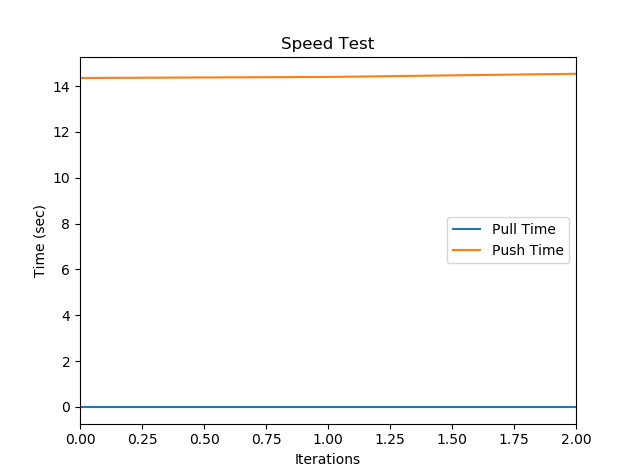
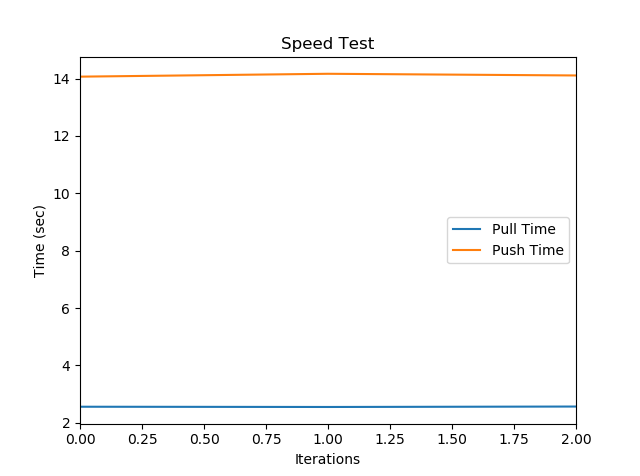
cleaned up code for speed and throughput testing

diff --git a/tests/Throughput_Thread.py b/tests/Throughput_Thread.py
@@ -10,36 +10,36 @@ import sys
 from synbiohub_adapter.SynBioHubUtil import *
 from sbol import *
 
-# download third party package: pip install pandas
+# download third party package to display plot: pip install pandas
 # python -m tests.Throughput_Thread
 
 class myThread (threading.Thread):
-	def __init__(self, sbolDoc, sbh_connector):
+	def __init__(self, sbolDoc_list, sbh_connector):
 		threading.Thread.__init__(self)
-		self.sbolDoc = sbolDoc
+		self.sbolDoc_list = sbolDoc_list
 		self.sbh_connector = sbh_connector
 		self.thread_start = self.thread_end = 0
 
 	def run(self):
-		# print("Started Thread at : %s" %(time.ctime(time.time())))
 		self.thread_start = time.ctime(time.time())
-		push_sbh(self.sbolDoc, self.sbh_connector)
+		for sbolDoc in self.sbolDoc_list:
+			push_sbh(sbolDoc, self.sbh_connector)
+			uri = sbolDoc.displayId + "/transcriptic_rule_30_q0_1_09242017/1"
+			pull_sbh(self.sbh_connector, uri)
 		self.thread_end = time.ctime(time.time())
-		# print("Ended Thread at : %s" %(time.ctime(time.time())))
 
 	def thread_times(self):
 		return self.thread_start, self.thread_end
 
 
-def create_sbolDocs(numDocs, startIndex, sbolFile='examples/rule30-Q0-v2.xml'):
+def create_sbolDocs(numDocs, collPrefix, sbolFile='examples/rule30-Q0-v2.xml'):
 	doc_list = []
-	print("startIndex %s" %startIndex)
-	for i in range(startIndex,numDocs):
+	for i in range(0, numDocs):
 		sbolDoc = Document()
 		sbolDoc.read(sbolFile)
-		sbolDoc.displayId = "ThroughputTest_Coll_" + str(i)
-		sbolDoc.name = "ThroughputTest_Coll_" + str(i) + "_name"
-		sbolDoc.description = "ThroughputTest_Coll_" + str(i) + "_description"
+		sbolDoc.displayId = collPrefix + str(i)
+		sbolDoc.name = collPrefix + str(i) + "_name"
+		sbolDoc.description = collPrefix + str(i) + "_description"
 		sbolDoc.version = str(i)
 		doc_list.append(sbolDoc)
 	return doc_list
@@ -61,56 +61,51 @@ def pull_sbh(sbh_connector, sbolURI):
 	start = time.clock()
 	sbh_connector.pull(sbolURI, sbolDoc)
 	end = time.clock()
-	# sbolDoc.writeString()
+	
+	if sbolDoc is None:
+		print("Found nothing and caused no error.")
+	else:
+		experimentalData_tl = []
+		for tl in sbolDoc:
+			if topLevel.type == 'http://sd2e.org#ExperimentalData':
+				experimentalData_tl.append(topLevel)
+				if len(experimentalData_tl) != 74:
+					print("Found the wrong SynBioHub Part with this uri: %s" %sbolURI)
+
 	return end - start
 
-def testSpeed(iterations, sbolDoc, sbh_connector):
-	
+def testSpeed(sbolDoc_List, sbh_connector):
 	pushTimes = []
 	pullTimes = []
 
-	collPrefix = "ST_CColl_"
-	# Note:iteration can't be 0 or lower
-	for i in range(0,iterations):
-		sbolDoc.displayId = collPrefix + str(i)
-		sbolDoc.name = collPrefix + str(i) + "_name"
-		sbolDoc.version = str(i)
-		sbolDoc.description = collPrefix + str(i) + "_description"
-		
+	for sbolDoc in sbolDoc_List:
 		pushTime = push_sbh(sbolDoc, sbh_connector)
 		pushTimes.append(pushTime)
-	
-		pullTime = pull_sbh(sbh_connector, sbolDoc.displayId)
-		pullTimes.append(0)
-		
+
+		uri = sbolDoc.displayId + "/transcriptic_rule_30_q0_1_09242017/1"
+		pullTime = pull_sbh(sbh_connector, uri)
+		pullTimes.append(pullTime)
+
 	return pullTimes, pushTimes
 
-# Calculate how many pull and push were made to SynBioHub for a specified time
-# totalTime: How long to push and pull from SynBioHub
-def testSpeed2(totalTime, sbolDoc, sbh_connector):
-	numPush = 0
-	pushTimes = []
-	startTime = time.clock()
-	coll_id = "TT2_AColl_" + str(numPush)
-	while time.clock() - startTime < totalTime:
-		sbolDoc.displayId = coll_id
-		sbolDoc.name = coll_id + "_name"
-		sbolDoc.version = str(numPush)
-		sbolDoc.description = coll_id + "_description"
-		
-		pushTimes.append(push_sbh(sbolDoc, sbh_connector))
-		numPush += 1
+def testThroughput(threadNum, sbh_connector, docNum):
+	threads = []
+	for t in range(0, threadNum):
+		sbolDoc_List = create_sbolDocs(docNum, "TT_EColl_" + str(t))
+		threads.append(myThread(sbolDoc_List, sbh_connector))
+	start = time.clock()
+	for t in threads:
+		t.start()
+	for t in threads:
+		t.join()
+	end = time.clock()
 
-	print("%d pushes in %d seconds" % (numPush, totalTime))
 
 def run_tests(iterations=0, testType=0):
-	sbolFile = 'examples/rule30-Q0-v2.xml' 
-	sbolDoc = Document()
-	sbolDoc.read(sbolFile)
-
 	sbh_connector = PartShop("https://synbiohub.bbn.com/")
 	sbh_user = input('Enter SynBioHub Username: ')
 	sbh_connector.login(sbh_user, getpass.getpass(prompt='Enter SynBioHub Password: ', stream=sys.stderr))
+	# Config.setOption("verbose", True)
 
 	if testType < 0 or testType > 2:
 		raise ValueError("Error: testType must be 0, 1, or 2")
@@ -119,10 +114,11 @@ def run_tests(iterations=0, testType=0):
 	isThrpt = (testType == 1) or (testType == 2)
 
 	if isSpeed:
-		pullTimes, pushTimes = testSpeed(iterations, sbolDoc, sbh_connector)
+		sbolDoc_List = create_sbolDocs(iterations, "ST_NColl_")
+		pullTimes, pushTimes = testSpeed(sbolDoc_List, sbh_connector)
 		df = pd.DataFrame({"Pull Time": pullTimes,
 							"Push Time": pushTimes})
-		df.loc['Total'] = df.sum()
+		
 		fig, ax = plt.subplots()
 		ax.set_title("Speed Test")
 		ax.set_ylabel("Time (sec)")
@@ -130,54 +126,17 @@ def run_tests(iterations=0, testType=0):
 		df.plot(x=df.index, ax = ax)
 		plt.show()
 		fig.savefig('outputs/SpeedResult_%s_iter.png' %iterations)
+
+		df.loc['Total'] = df.sum()
 		df.to_csv("outputs/SpeedResult_%s_iter.csv" %iterations)
 
 	if isThrpt:
-		count = 0
-		docNum = iterations
-		startIndex = 0
-		pushSec = []
-		tStart = []
-		tEnd = []
-		while count < 3:
-			doc_list = create_sbolDocs(docNum, startIndex)
-			threads = [myThread(sbolDoc, sbh_connector) for sbolDoc in doc_list]
-			start = time.clock()
-			for t in threads:
-				t.start()
-			for t in threads:
-				t.join()
-			end = time.clock()
-			for t in threads:
-				t_start, t_end = t.thread_times()
-				tStart.append(t_start)
-				tEnd.append(t_end)
+		threadNum = 3
+		testThroughput(threadNum, sbh_connector, iterations)
 
-			pushSec.append(docNum/(end-start))
-			startIndex = docNum
-			docNum += 2
-			count += 1
-
-		df = pd.DataFrame({"Thread Started": tStart,
-							"Thread Ended": tEnd,
-							"Push per Sec": pushSec})
-		fig, ax = plt.subplots()
-		ax.set_title("Throughput_Thread Test")
-		ax.set_ylabel("Time (sec)")
-		ax.set_xlabel("Iterations")
-		df.plot(x=df.index, ax = ax)
-		plt.show()
-		fig.savefig('SpeedResult_%s_iter.png' %iterations)
-		df.to_csv("SpeedResult_%s_iter.csv" %iterations)
+		
 
 		
 if __name__ == '__main__':
-	# run_tests(3, 0)
+	run_tests(3, 1)
 
-	uri = "https://synbiohub.org/public/igem/BBa_K1001755/1"
-	Config.setOption("verbose", True)
-	sbh_connector = PartShop("https://synbiohub.org/")
-	sbh_user = input('Enter SynBioHub Username: ')
-	sbh_connector.login(sbh_user, getpass.getpass(prompt='Enter SynBioHub Password: ', stream=sys.stderr))
-
-	pull_sbh(sbh_connector, uri)
